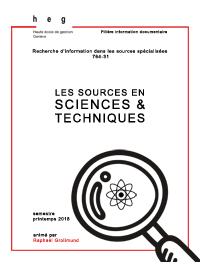
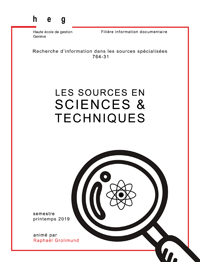
v0.3.9 RC2: corr. erreur table des matières & màj couverture

diff --git a/SUMMARY.md b/SUMMARY.md
@@ -3,43 +3,43 @@
 ## Ressources
 
 * [À propos des ressources](01-ressources/README.md)
-    * [Bases de données multidisciplinaires](01-ressources/01-bases-multidisciplinaires/README.md)
-		  * [Web of Science (Core Collection)](01-ressources/01-bases-multidisciplinaires/WoS.md)
-		  * [Scopus](01-ressources/01-bases-multidisciplinaires/Scopus.md)
-		  * [ScienceDirect](01-ressources/01-bases-multidisciplinaires/ScienceDirect.md)
-		  * [SpringerLink](01-ressources/01-bases-multidisciplinaires/SpringerLink.md)
-		  * [Compendex](01-ressources/01-bases-multidisciplinaires/Compendex.md)
-		  * [Inspec](01-ressources/01-bases-multidisciplinaires/Inspec.md)
-		  * [Wiley Online Library](01-ressources/01-bases-multidisciplinaires/Wiley.md)
-    * [Bases de données spécialisées](01-ressources/02-bases-specialisees/README.md)
-		  * [GEOBASE](01-ressources/02-bases-specialisees/GEOBASE.md)
-		  * [GeoRef](01-ressources/02-bases-specialisees/GeoRef.md)
-		  * [IEEE Xplore](01-ressources/02-bases-specialisees/IEEEXplore.md)
-		  * [MathSciNet](01-ressources/02-bases-specialisees/MathSciNet.md)
-		  * [zbMATH](01-ressources/02-bases-specialisees/zbMATH.md)
-		  * [Medline](01-ressources/02-bases-specialisees/Medline.md)
-		  * [CAplus](01-ressources/02-bases-specialisees/CAplus.md)
-    * [Moteurs de recherche](01-ressources/03-moteurs-de-recherche.md)
-    * [Archives ouvertes](01-ressources/04-archives-ouvertes/README.md)
-      * [Archive ouverte de l'UNIGE](01-ressources/04-archives-ouvertes/AO-UniGE.md)
-      * [Archive ouverte HAL](01-ressources/04-archives-ouvertes/HAL.md)
-      * [ArODES](01-ressources/04-archives-ouvertes/ArODES.md)
-	    * [arXiv](01-ressources/04-archives-ouvertes/arXiv.md)
-	    * [bioRxiv](01-ressources/04-archives-ouvertes/bioRxiv.md)
-	    * [CERN Document Server](01-ressources/04-archives-ouvertes/CDS.md)
-	    * [Infoscience](01-ressources/04-archives-ouvertes/Infoscience.md)
-      * [Publications & Recherches](01-ressources/04-archives-ouvertes/PR-unine.md)
-      * [RERO DOC](01-ressources/04-archives-ouvertes/RERODOC.md)
-	    * [Serval](01-ressources/04-archives-ouvertes/Serval.md)
-    * [Réseaux sociaux scientifiques](01-ressources/05-reseaux-sociaux/README.md)
-	    * [Academia.edu](01-ressources/05-reseaux-sociaux/Academia.edu.md)
-      * [ResearchGate](01-ressources/05-reseaux-sociaux/ResearchGate.md)
-	    * [Twitter](01-ressources/05-reseaux-sociaux/Twitter.md)
-    * [Dépôts de données de recherche](01-ressources/06-donnees-de-recherche/README.md)
-	    * [Dryad](01-ressources/06-donnees-de-recherche/Dryad.md)
-	    * [Figshare](01-ressources/06-donnees-de-recherche/Figshare.md)
-      * [Zenodo](01-ressources/06-donnees-de-recherche/Zenodo.md)
-    * [Comparaison](01-ressources/comparaison.md)
+	* [Bases de données multidisciplinaires](01-ressources/01-bases-multidisciplinaires/README.md)
+	* [Web of Science (Core Collection)](01-ressources/01-bases-multidisciplinaires/WoS.md)
+	* [Scopus](01-ressources/01-bases-multidisciplinaires/Scopus.md)
+	* [ScienceDirect](01-ressources/01-bases-multidisciplinaires/ScienceDirect.md)
+	* [SpringerLink](01-ressources/01-bases-multidisciplinaires/SpringerLink.md)
+	* [Compendex](01-ressources/01-bases-multidisciplinaires/Compendex.md)
+	* [Inspec](01-ressources/01-bases-multidisciplinaires/Inspec.md)
+	* [Wiley Online Library](01-ressources/01-bases-multidisciplinaires/Wiley.md)
+	* [Bases de données spécialisées](01-ressources/02-bases-specialisees/README.md)
+	* [GEOBASE](01-ressources/02-bases-specialisees/GEOBASE.md)
+	* [GeoRef](01-ressources/02-bases-specialisees/GeoRef.md)
+	* [IEEE Xplore](01-ressources/02-bases-specialisees/IEEEXplore.md)
+	* [MathSciNet](01-ressources/02-bases-specialisees/MathSciNet.md)
+	* [zbMATH](01-ressources/02-bases-specialisees/zbMATH.md)
+	* [Medline](01-ressources/02-bases-specialisees/Medline.md)
+	* [CAplus](01-ressources/02-bases-specialisees/CAplus.md)
+* [Moteurs de recherche](01-ressources/03-moteurs-de-recherche.md)
+	* [Archives ouvertes](01-ressources/04-archives-ouvertes/README.md)
+	* [Archive ouverte de l'UNIGE](01-ressources/04-archives-ouvertes/AO-UniGE.md)
+	* [Archive ouverte HAL](01-ressources/04-archives-ouvertes/HAL.md)
+	* [ArODES](01-ressources/04-archives-ouvertes/ArODES.md)
+	* [arXiv](01-ressources/04-archives-ouvertes/arXiv.md)
+	* [bioRxiv](01-ressources/04-archives-ouvertes/bioRxiv.md)
+	* [CERN Document Server](01-ressources/04-archives-ouvertes/CDS.md)
+	* [Infoscience](01-ressources/04-archives-ouvertes/Infoscience.md)
+	* [Publications & Recherches](01-ressources/04-archives-ouvertes/PR-unine.md)
+	* [RERO DOC](01-ressources/04-archives-ouvertes/RERODOC.md)
+	* [Serval](01-ressources/04-archives-ouvertes/Serval.md)
+	* [Réseaux sociaux scientifiques](01-ressources/05-reseaux-sociaux/README.md)
+	* [Academia.edu](01-ressources/05-reseaux-sociaux/Academia.edu.md)
+	* [ResearchGate](01-ressources/05-reseaux-sociaux/ResearchGate.md)
+	* [Twitter](01-ressources/05-reseaux-sociaux/Twitter.md)
+	* [Dépôts de données de recherche](01-ressources/06-donnees-de-recherche/README.md)
+	* [Dryad](01-ressources/06-donnees-de-recherche/Dryad.md)
+	* [Figshare](01-ressources/06-donnees-de-recherche/Figshare.md)
+	* [Zenodo](01-ressources/06-donnees-de-recherche/Zenodo.md)
+* [Comparaison](01-ressources/comparaison.md)
 
 ## Plateformes
 

diff --git a/versions.md b/versions.md
@@ -15,3 +15,4 @@
 | 0.2.9.6beta | 11.05.2018 | mise en page infographies + versions.md |
 | 0.3 | 14.05.2018 | dernière corr. sur v0.2.9 (CAplus + infographie) |
 | 0.3.9 RC | 12.05.2019 | mise à jour bases de données et plateformes |
+| 0.3.9 RC2 | 12.05.2019 | corr. erreur table des matières et màj couverture |
